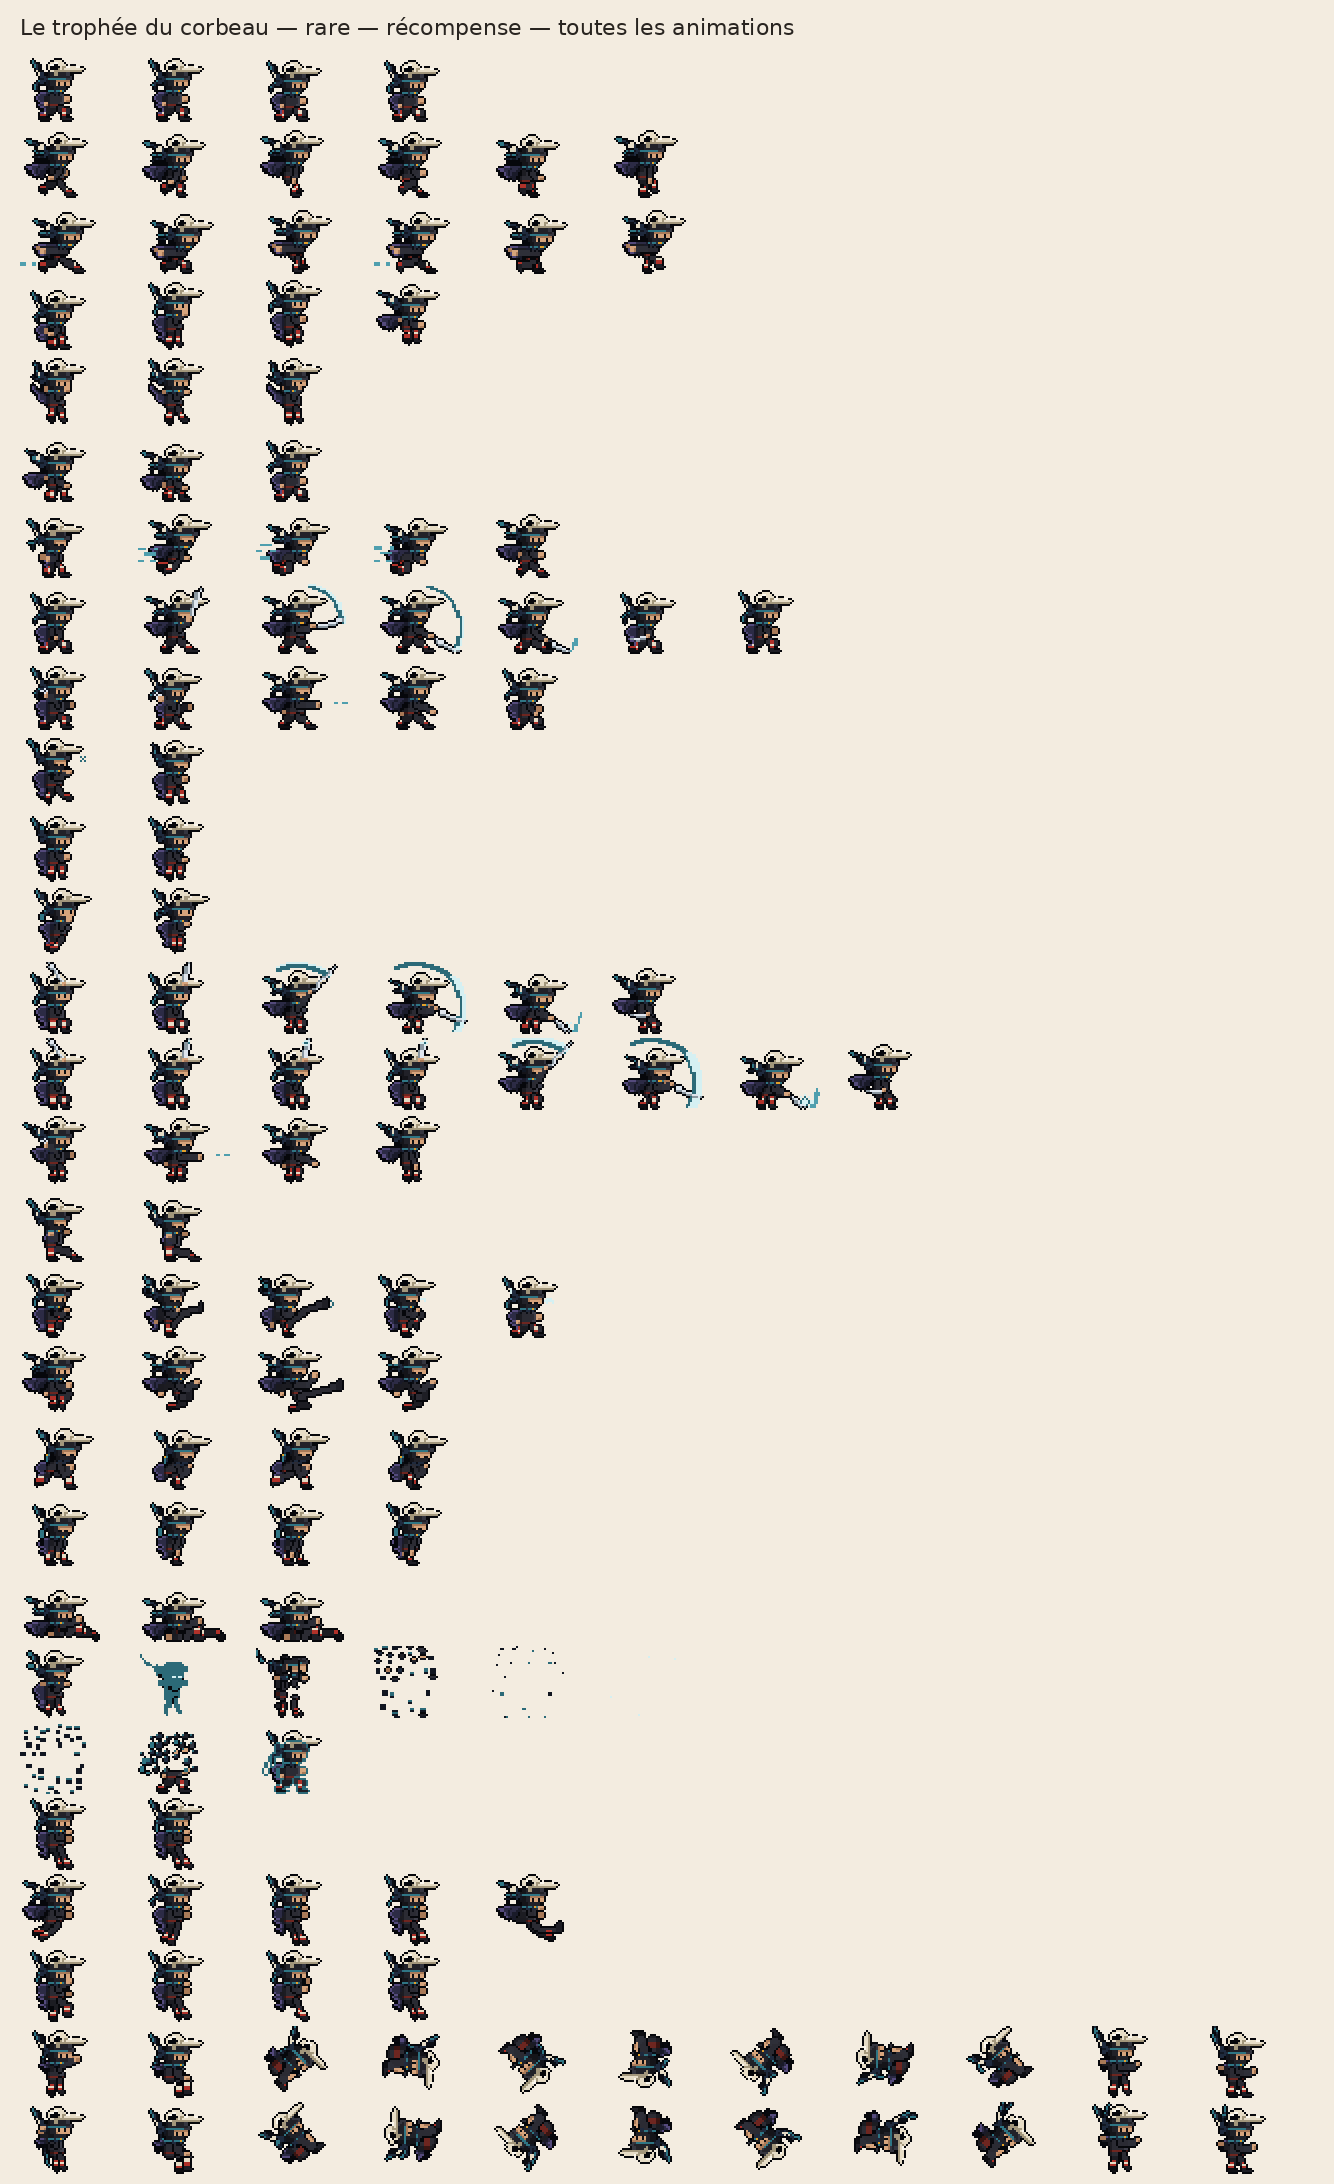
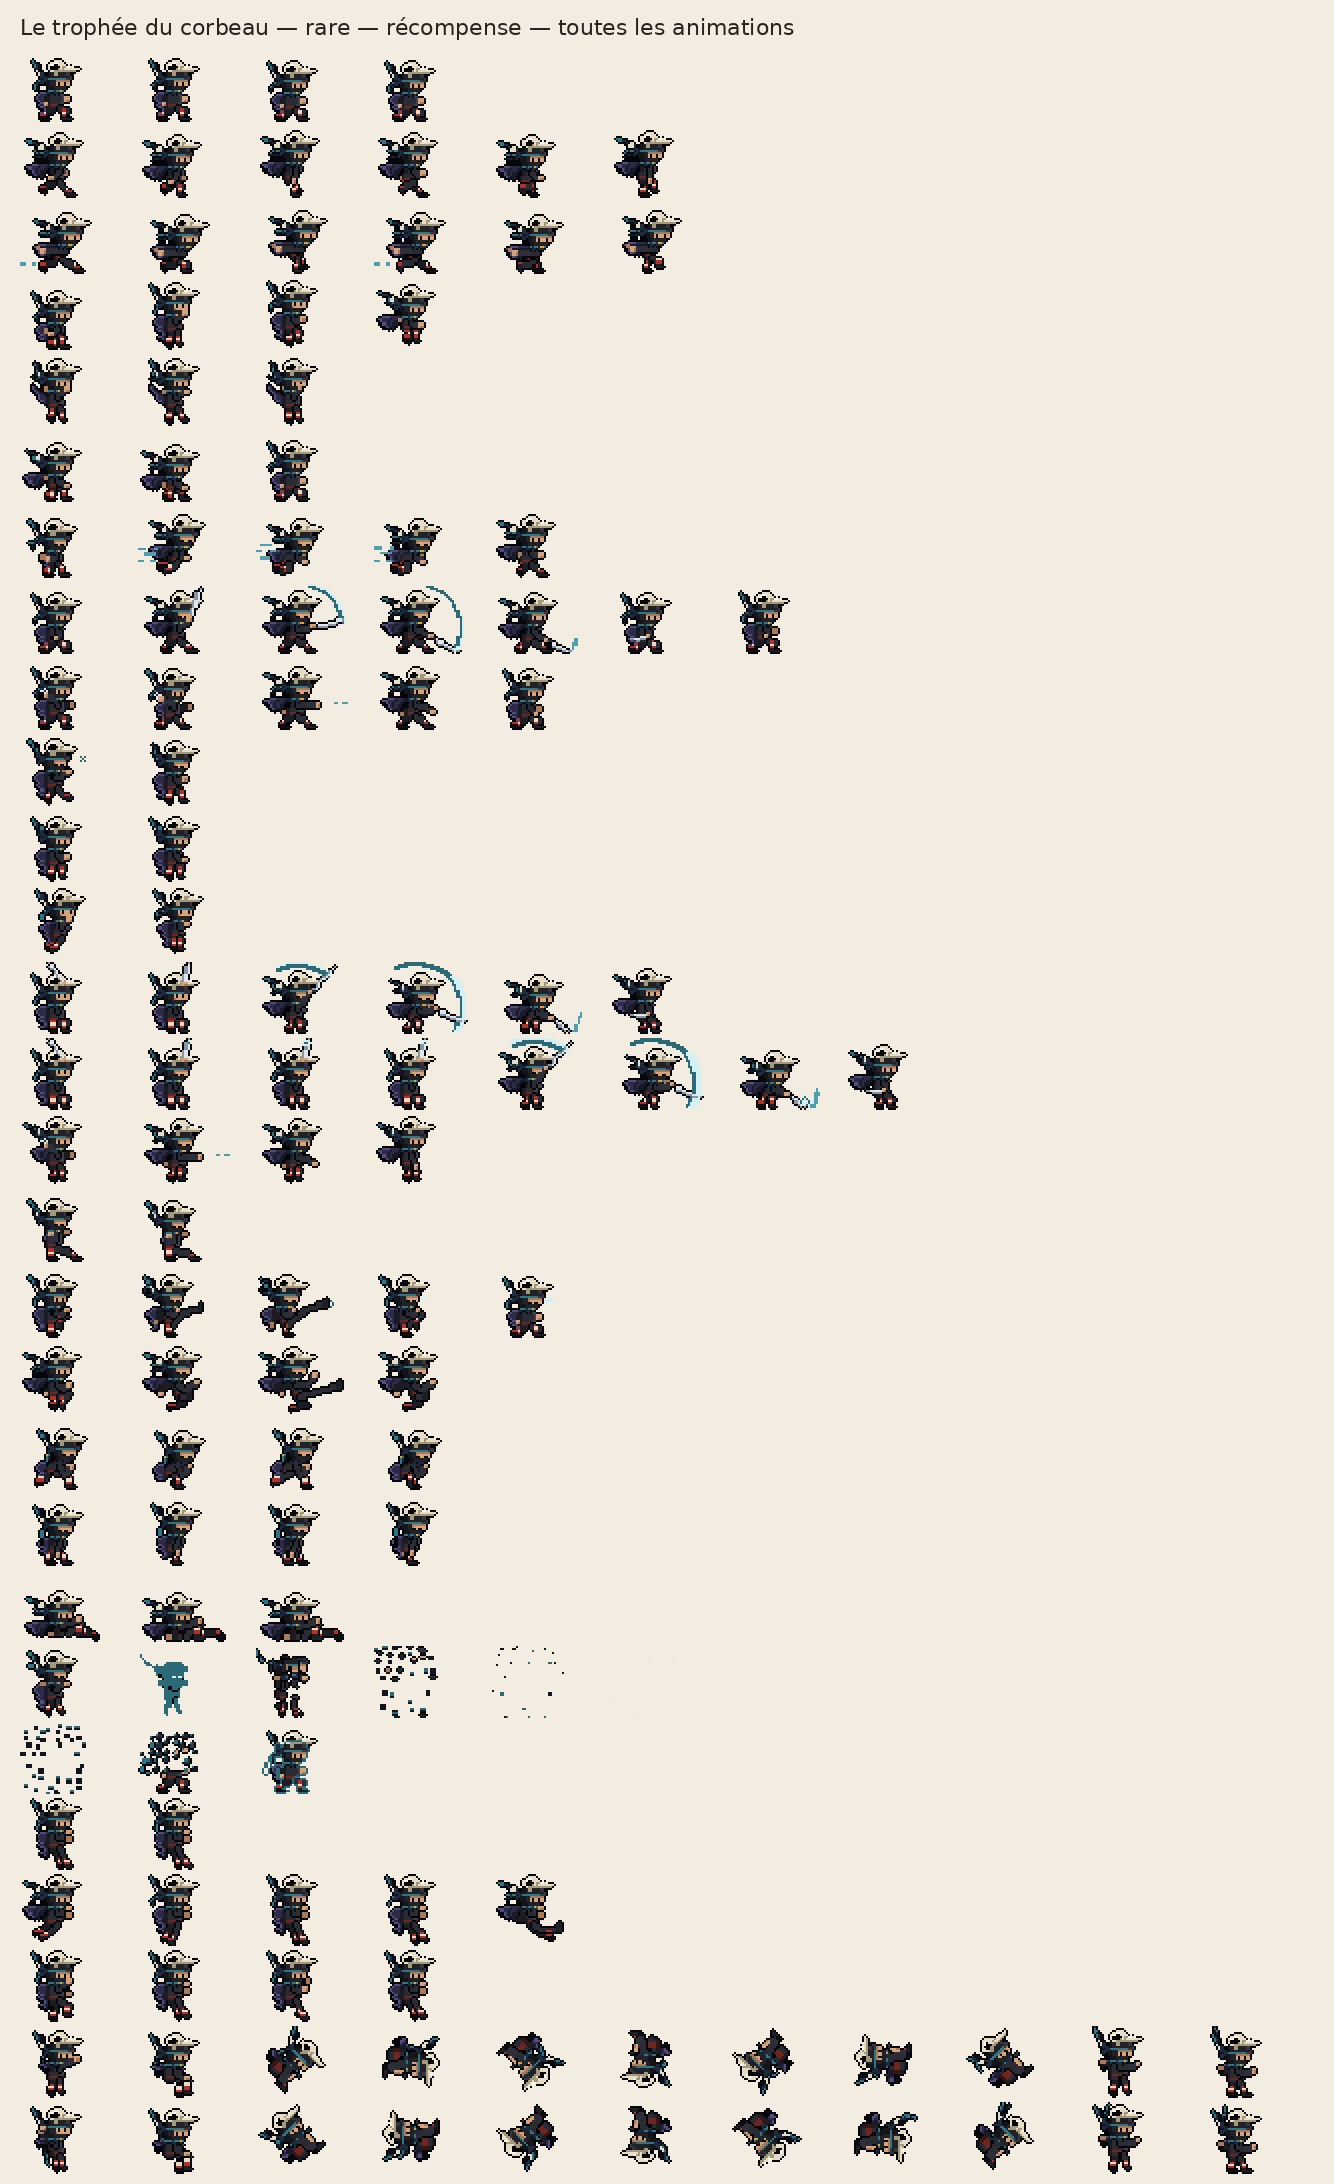
Trophée du corbeau : bec du crâne raccourci de 2 pixels
Claude-Session: https://claude.ai/code/session_01A2iwx41GJ1yT1ZEu9VhwRg

diff --git a/tools/kage_forge/accessories.py b/tools/kage_forge/accessories.py
@@ -1843,13 +1843,13 @@ def crow_cape(g):
 # Os : u reflet, c os, j ombre ; O orbite.
 # (colonne, rangée de son coin haut gauche, par rapport à la tête)
 CROW_SKULL = """
-...cccc.........
-..cuuccc........
-.cuOOcccc.......
-.cOOOOcjjucccu..
-.cOOOjcjcccccccc
-..cjjjjjjjjjjjj.
-...jj...........
+...cccc.......
+..cuuccc......
+.cuOOcccc.....
+.cOOOOcjjucu..
+.cOOOjcjcccccc
+..cjjjjjjjjjj.
+...jj.........
 """
 CROW_SKULL_AT = (1, -4)
 
